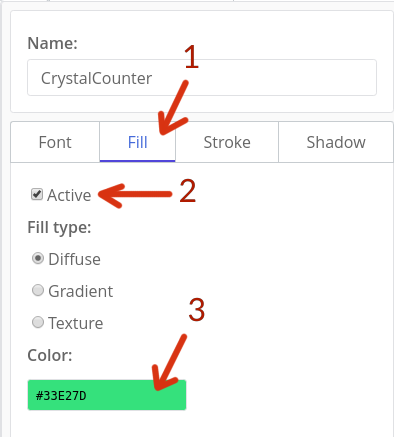
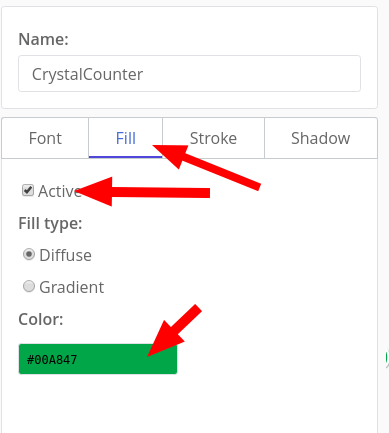
:memo: Update Platformer tutorial

Changed region(s): [[0.0, 0.0, 1.0, 1.0], [0.0617, 0.5704, 0.3085, 0.6905], [0.9871, 0.03, 1.0, 0.2402]]

diff --git a/docs/tut-making-platformer.md b/docs/tut-making-platformer.md
@@ -132,12 +132,11 @@ The idea of a side-view movement is that we will have a value on which we would 
 Let's set up some variables on the "On Create" tab:
 
 ```js
-this.speed = 8; // Max horizontal speed
-this.jumpSpeed = -10;
-this.gravity = 1;
+this.jumpSpeed = -9;
+this.gravity = 0.5;
 
-this.hspeed = 0; // Horizontal speed
-this.vspeed = 0; // Vertical speed
+this.hspd = 0; // Horizontal speed
+this.vspd = 0; // Vertical speed
 ```
 
 ::: tip
@@ -147,15 +146,16 @@ this.vspeed = 0; // Vertical speed
 Now move to the "On Step" tab and add this code:
 
 ```js
+this.speed = 4 * ct.delta; // Max horizontal speed
 if (ct.keyboard.down['A']) {
     // If the A key on keyboard is down, then move to left
-    this.hspeed = -this.speed;
+    this.hspd = -this.speed;
 } else if (ct.keyboard.down['D']) {
     // If the D key on keyboard is down, then move to right
-    this.hspeed = this.speed;
+    this.hspd = this.speed;
 } else {
     // Don't move horizontally if no input
-    this.hspeed = 0;
+    this.hspd = 0;
 }
 
 // If there is ground underneath the Robot…
@@ -163,14 +163,14 @@ if (ct.place.occupied(this, this.x, this.y + 1, 'Solid')) {
     // …and the W key or the spacebar is down…
     if (ct.keyboard.down['W'] || ct.keyboard.down['space']) {
         // …then jump!
-        this.vspeed = this.jumpSpeed;
+        this.vspd = this.jumpSpeed;
     } else {
         // Reset our vspeed. We don't want to be buried underground!
-        this.vspeed = 0;
+        this.vspd = 0;
     }
 } else {
     // If there is no ground  
-    this.vspeed += this.gravity;
+    this.vspd += this.gravity * ct.delta;
 }
 ```
 
@@ -184,21 +184,27 @@ if (ct.place.occupied(this, this.x, this.y + 1, 'Solid')) {
 `ct.place.occupied(copy, x, y, group)` checks whether a given copy has any collisions in given coordinates with a specific group. You can omit the group if you don't need it. This method returns either `false` (no collision) or a copy which was the first to collide with.
 :::
 
-This will set variables `hspeed` and `vspeed`, but they won't do anything as is. Add more code to actually move the Robot around:
+::: tip
+`ct.delta` describes how much the previous frame took time to process. If everything is ok and game performs at smooth FPS, it is eqal to `1`, and is larger if a game can't reach the target FPS value.
+
+By multiplying values to `ct.delta`, we make sure that everything moves uniformly at any framerate.
+:::
+
+This will set variables `hspd` and `vspd`, but they won't do anything as is. Add more code to actually move the Robot around:
 
 ```js
 // Move by horizontal axis, pixel by pixel
-for (var i = 0; i < Math.abs(this.hspeed); i++) {
-    if (ct.place.free(this, this.x + Math.sign(this.hspeed), this.y, 'Solid')) {
-        this.x += Math.sign(this.hspeed);
+for (var i = 0; i < Math.abs(this.hspd); i++) {
+    if (ct.place.free(this, this.x + Math.sign(this.hspd), this.y, 'Solid')) {
+        this.x += Math.sign(this.hspd);
     } else {
         break;
     }
 }
 // Do the same for vertical speed
-for (var i = 0; i < Math.abs(this.vspeed); i++) {
-    if (ct.place.free(this, this.x, this.y + Math.sign(this.vspeed), 'Solid')) {
-        this.y += Math.sign(this.vspeed);
+for (var i = 0; i < Math.abs(this.vspd); i++) {
+    if (ct.place.free(this, this.x, this.y + Math.sign(this.vspd), 'Solid')) {
+        this.y += Math.sign(this.vspd);
     } else {
         break;
     }
@@ -287,8 +293,8 @@ Now open the `Robot` type again, and add this code to the top of its `On Step` c
 if (ct.place.occupied(this, this.x, this.y, 'Deadly')) {
     this.x = this.savedX;
     this.y = this.savedY;
-    this.hspeed = 0;
-    this.vspeed = 0;
+    this.hspd = 0;
+    this.vspd = 0;
     return;
 }
 ```
@@ -310,33 +316,38 @@ To test a specific room, open the "Rooms" tab at the top, then right-click the d
 
 At this point, it will be wise to add little animations to our robot. As you remember, we have three different assets called `Robot_Idle`, `Robot_Jump`, and `Robot_Walking`.
 
-Add this code to `Robot`'s "On Create" code:
+Add this line to `Robot`'s "On Create" code:
 
 ```js
-// Enable image transforms on this copy
-this.transform = true;
-// Play 8 frames per second
-this.imgspd = 8 / ct.speed;
+this.animationSpeed = 0.2;
 ```
+
+`0.2` means that we want to play 0.2×60 (which is 12) frames per second. For more readability, we could also write it as `12/60`.
 
 Open the `Robot`'s "On Step" code and modify the moving section so it changes the drawn graphics asset depending on user inputs and the robot's position in space:
 
-```js{4,5,6,10,11,12,16,31,32}
+```js{4,5,6,7,8,9,13,14,15,16,17,18,22,38,39}
 if (ct.keyboard.down['A']) {
     // If the A key on keyboard is down, then move to left
-    this.hspeed = -this.speed;
+    this.hspd = -this.speed;
     // Set the walking animation and transform the robot to the left
-    this.graph = 'Robot_Walking';
-    this.tx = -1;
+    if (this.graph !== 'Robot_Walking') {
+        this.graph = 'Robot_Walking';
+        this.play();
+    }
+    this.scale.x = -1;
 } else if (ct.keyboard.down['D']) {
     // If the D key on keyboard is down, then move to right
-    this.hspeed = this.speed;
+    this.hspd = this.speed;
     // Set the walking animation and transform the robot to the right
-    this.graph = 'Robot_Walking';
-    this.tx = 1;
+    if (this.graph !== 'Robot_Walking') {
+        this.graph = 'Robot_Walking';
+        this.play();
+    }
+    this.scale.x = 1;
 } else {
     // Don't move horizontally if no input
-    this.hspeed = 0;
+    this.hspd = 0;
     this.graph = 'Robot_Idle';
 }
 
@@ -345,14 +356,14 @@ if (ct.place.occupied(this, this.x, this.y + 1, 'Solid')) {
     // …and the W key or the spacebar is down…
     if (ct.keyboard.down['W'] || ct.keyboard.down['space']) {
         // …then jump!
-        this.vspeed = this.jumpSpeed;
+        this.vspd = this.jumpSpeed;
     } else {
         // Reset our vspeed. We don't want to be buried underground!
-        this.vspeed = 0;
+        this.vspd = 0;
     }
 } else {
     // If there is no ground  
-    this.vspeed += this.gravity;
+    this.vspd += this.gravity;
     // Set jumping animation!
     this.graph = 'Robot_Jump';
 }
@@ -436,6 +447,7 @@ Call a new script as `inGameRoomStart`. Write this code:
 var inGameRoomStart = function (room) {
     room.crystals = 0;
     room.crystalsTotal = ct.types.list['GreenCrystal'].length;
+    ct.types.copy('CrystalsWidget', 0, 0);
 };
 ```
 
@@ -457,28 +469,42 @@ When `inGameRoomStart(this);` is called it will set `crystals` and `crystalsTota
 
 So that's how we gather and count the crystals, but we also need to draw their count and do it with *style*. ✨
 
-Gladly, there is a tool for designing nifty styles inside the ct.js. Open the "Styles" tab at the top of the screen and create a new style. Call it as a `CrystalCounter`.
+Gladly, there is a tool for designing nifty text styles inside the ct.js. Open the "Styles" tab at the top of the screen and create a new style. Call it as a `CrystalCounter`.
 
-Activate the "Font" section and set the font size to 20 and its weight to 900. Align it to the middle left.
+Then activate the "Font" section, set the font size to 24 and its weight to 600. Align it to the left.
 
 ![Setting a style's font](./images/tutPlatformer_17.png)
 
-Then open the "Fill" tab, activate it and set its fill color to green. I chose `#33E27D` as it is the main color of the crystal. There are also darker shades like `#2ECC71` and `#28B463`.
+Then open the "Fill" tab, activate it and set its fill color to green. I chose `#00A847`. Other good choices include main colors of the crystal, like `#2ECC71` and `#28B463`.
 
 ![Setting a style's fill color](./images/tutPlatformer_18.png)
 
-Now save the style and open the "Settings" tab. We will need to create another reusable function. Let's call it `inGameRoomOnDraw`. Write the following:
+We can also add a thich white line to our text. Open the "Stroke" tab, then set the color to white and line's width to 5. If you can't see the result on the right, try switching to a dark UI theme for a while by clicking the hamburger menu at the top.
+
+![Setting a style's line style](./images/tutPlatformer_23.png)
+
+We should now create a new type that will display a crystal icon and a counter called `CrystalCounter`. Set its sprite to `GreenCrystal`, and write the following in its OnCreate code:
 
 ```js
-var inGameRoomOnDraw = function(room) {
-    ct.draw.image('GreenCrystal', 0, room.x + 24, room.y + 24);
-    ct.styles.set('CrystalCounter');
-    ct.draw.text(room.crystals + ' / ' + room.crystalsTotal, room.x + 50, room.y + 24);
-    ct.styles.reset();
-};
+this.text = new PIXI.Text('0 / ' + ct.room.crystalsTotal, ct.styles.get('CrystalCounter'));
+this.text.x = 32;
+this.text.anchor.y = 0.5;
+
+this.addChild(this.text);
 ```
 
-Now save the script and add a line `inGameRoomOnDraw(this);` to the "Draw" event of both rooms.
+Here we create a new text label and attach it to our icon. `this.text.anchor.y = 0.5;` tells that the vertical axis of the label should be aligned to the middle of our icon.
+
+Now open the "Draw" tab and add this code:
+
+```js
+this.x = ct.room.x + 24;
+this.y = ct.room.y + 24;
+
+this.text.text = ct.room.crystals + ' / ' + ct.room.crystalsTotal;
+```
+
+Here we snap our widget to the top-left corner, and update its label.
 
 We will now have a crystal counter at the top-left corner of our screen.
 
@@ -513,33 +539,37 @@ Then go to the "Settings" tab and modify the `inGameRoomStart` script:
 var inGameRoomStart = function (room) {
     room.crystals = 0;
     room.crystalsTotal = ct.types.list['GreenCrystal'].length;
+    ct.types.copy('CrystalsWidget', 0, 0);
++    ct.types.copy('HeartsWidget', 0, 0);
 +    room.lives = 3;
 };
 ```
 
 Don't forget to place actual heart bonuses on your levels!
 
-We will also need a style for a counter. The process is the same, and the suitable color is `#E85017`. We can even duplicate the existing style! Let's call this style a HeartCounter.
+We will also need a style for a counter. The process is the same, and the suitable color is `#E85017`. We can even duplicate the existing style! Let's call this style a `HeartCounter`.
 
-Then edit the `inGameRoomOnDraw` script in the "Settings" tab, adding a code for drawing the lives portion:
+We will need another widget for health, too. Create a new type called `HeartsWidget`, set its sprite to the `Heart`, and set its OnCreate code to this:
 
 ```js
-var inGameRoomOnDraw = function(room) {
-    // Draw a crystal counter
-    ct.draw.image('GreenCrystal', 0, room.x + 24, room.y + 24);
-    ct.styles.set('CrystalCounter');
-    ct.draw.text(room.crystals + ' / ' + room.crystalsTotal, room.x + 50, room.y + 24);
-    ct.styles.reset();
-    
-    // Draw lives
-    ct.draw.image('Heart', 0, room.x + room.width - 50, room.y + 24);
-    ct.styles.set('HeartCounter');
-    ct.draw.text(room.lives , room.x + room.width - 25, room.y + 24);
-    ct.styles.reset();
-};
+this.text = new PIXI.Text(ct.room.lives, ct.styles.get('HeartCounter'));
+this.text.x = -32;
+this.text.anchor.y = 0.5;
+this.text.anchor.x = 1;
+
+this.addChild(this.text);
 ```
 
-Note how we use the property `room.width` to draw an image and a label on the right side of the screen.
+And in the "Draw" event:
+
+```js
+this.x = ct.room.x + ct.width - 24;
+this.y = ct.room.y + 24;
+
+this.text.text = ct.room.lives;
+```
+
+Note how we use the property `room.width` to position the widget on the right side of the screen.
 
 Now modify the respawn code of the `Robot` so it loses one heart at each respawn:
 
@@ -547,8 +577,8 @@ Now modify the respawn code of the `Robot` so it loses one heart at each respawn
 if (ct.place.occupied(this, this.x, this.y, 'Deadly')) {
     this.x = this.savedX;
     this.y = this.savedY;
-    this.hspeed = 0;
-    this.vspeed = 0;
+    this.hspd = 0;
+    this.vspd = 0;
     // remove one life
     ct.room.lives --;
     if (ct.room.lives <= 0) {
@@ -576,7 +606,7 @@ The moving platforms will act in this way:
 Let's open a `Platform`'s type and initialize its speed and collision group:
 
 ```js
-this.speed = 4;
+this.speed = 2;
 this.ctype = 'Solid';
 ```
 
@@ -591,7 +621,7 @@ if (robot) {
 
 And the movement logic:
 ```js
-this.x += this.speed;
+this.x += this.speed * ct.delta;
 if (ct.place.occupied(this, this.x + this.speed, this.y, 'Solid')) {
     // Flip the speed direction
     this.speed *= -1;
@@ -612,12 +642,12 @@ if (robot) {
     this.ctype = 'Solid';
     robot = ct.place.meet(this, this.x, this.y - 1, 'Robot');
     if (robot) {
-        robot.x += this.speed;
+        robot.x += this.speed * ct.delta;
     }
 }
 
-this.x += this.speed;
-if (ct.place.occupied(this, this.x + this.speed, this.y, 'Solid')) {
+this.x += this.speed * ct.delta;
+if (ct.place.occupied(this, this.x + this.speed * ct.delta, this.y, 'Solid')) {
     // Flip the speed direction
     this.speed *= -1;
 }
